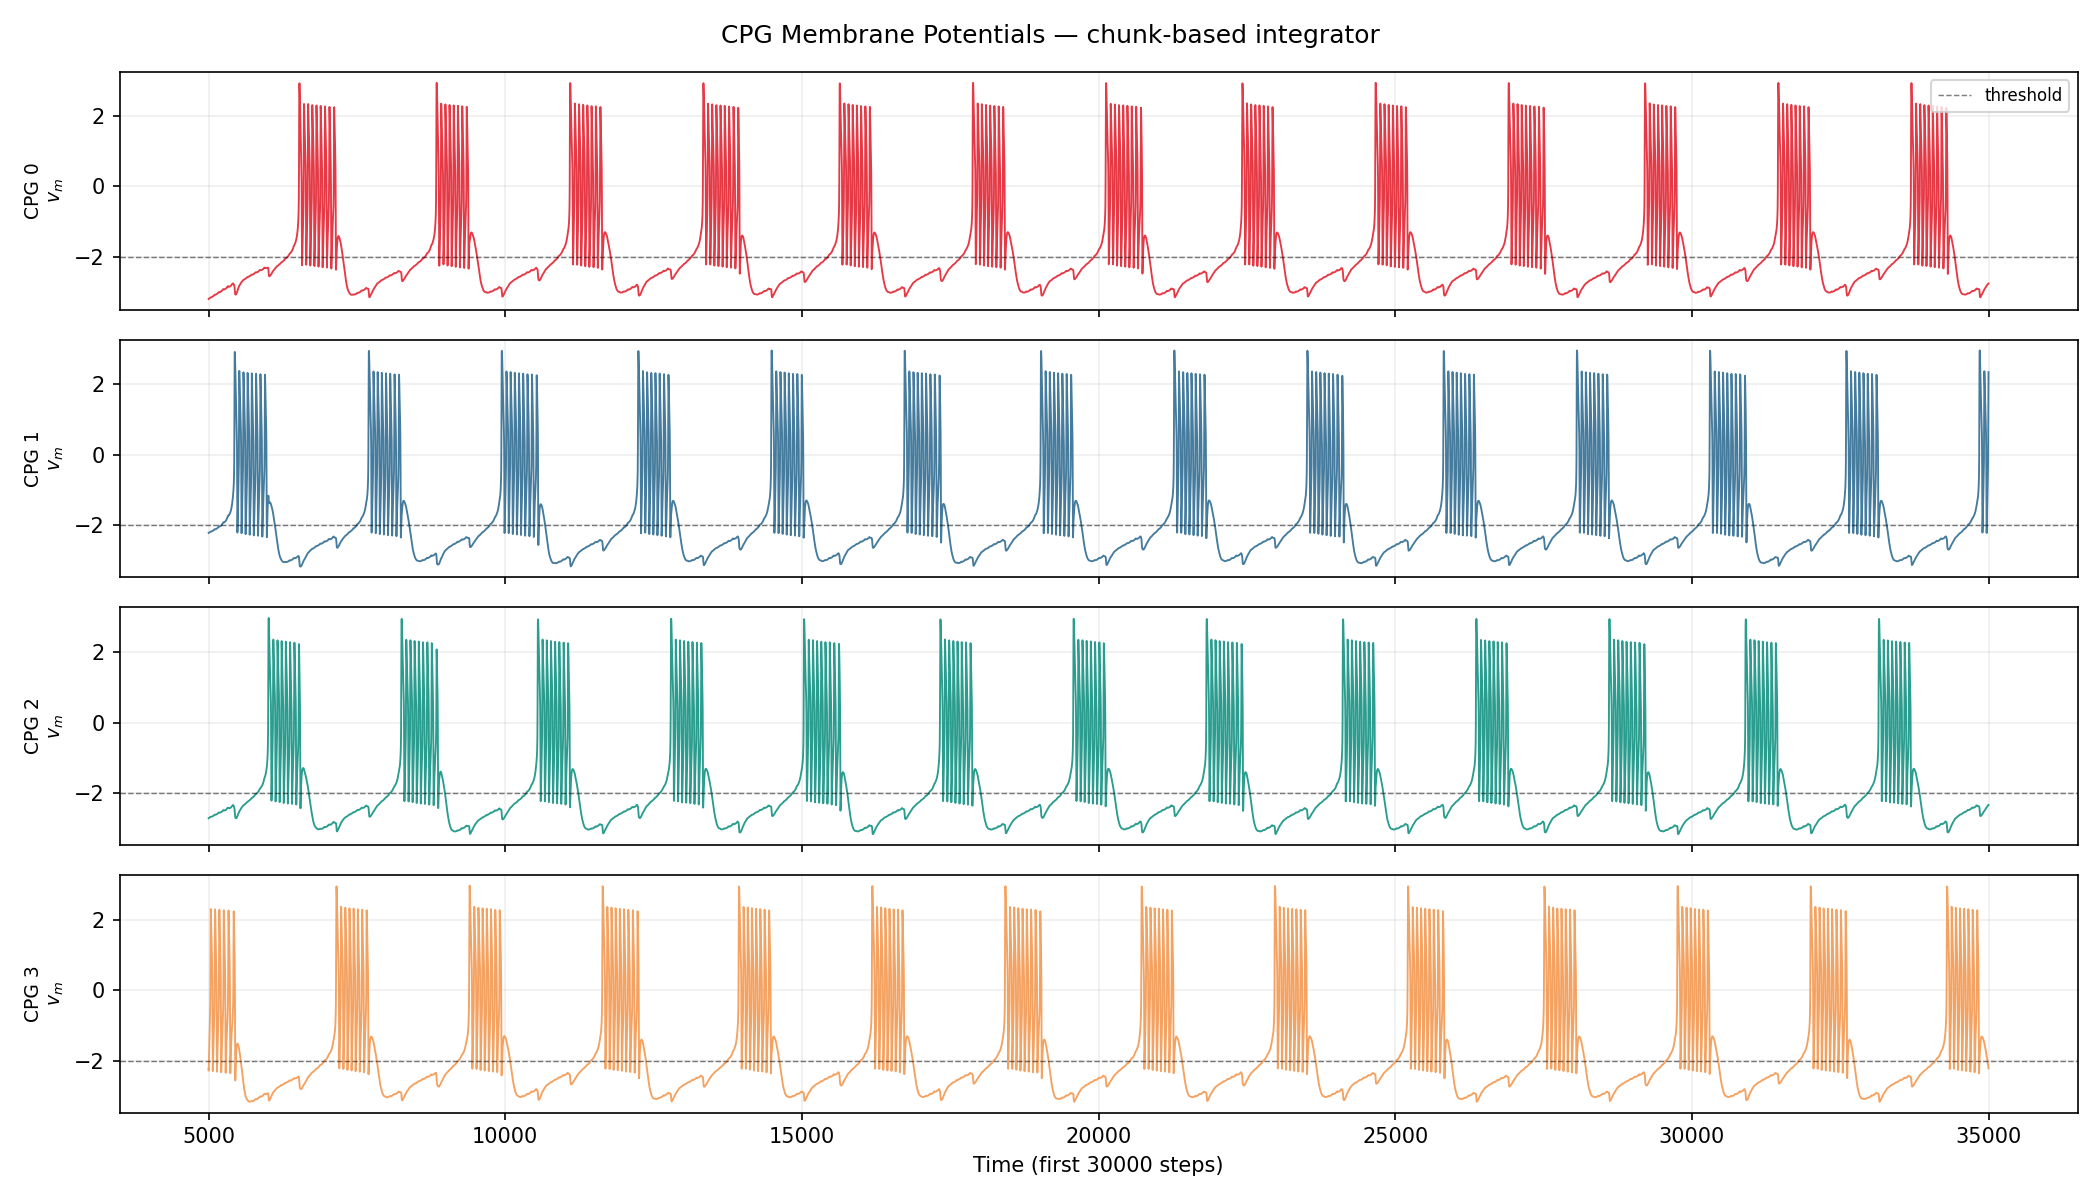
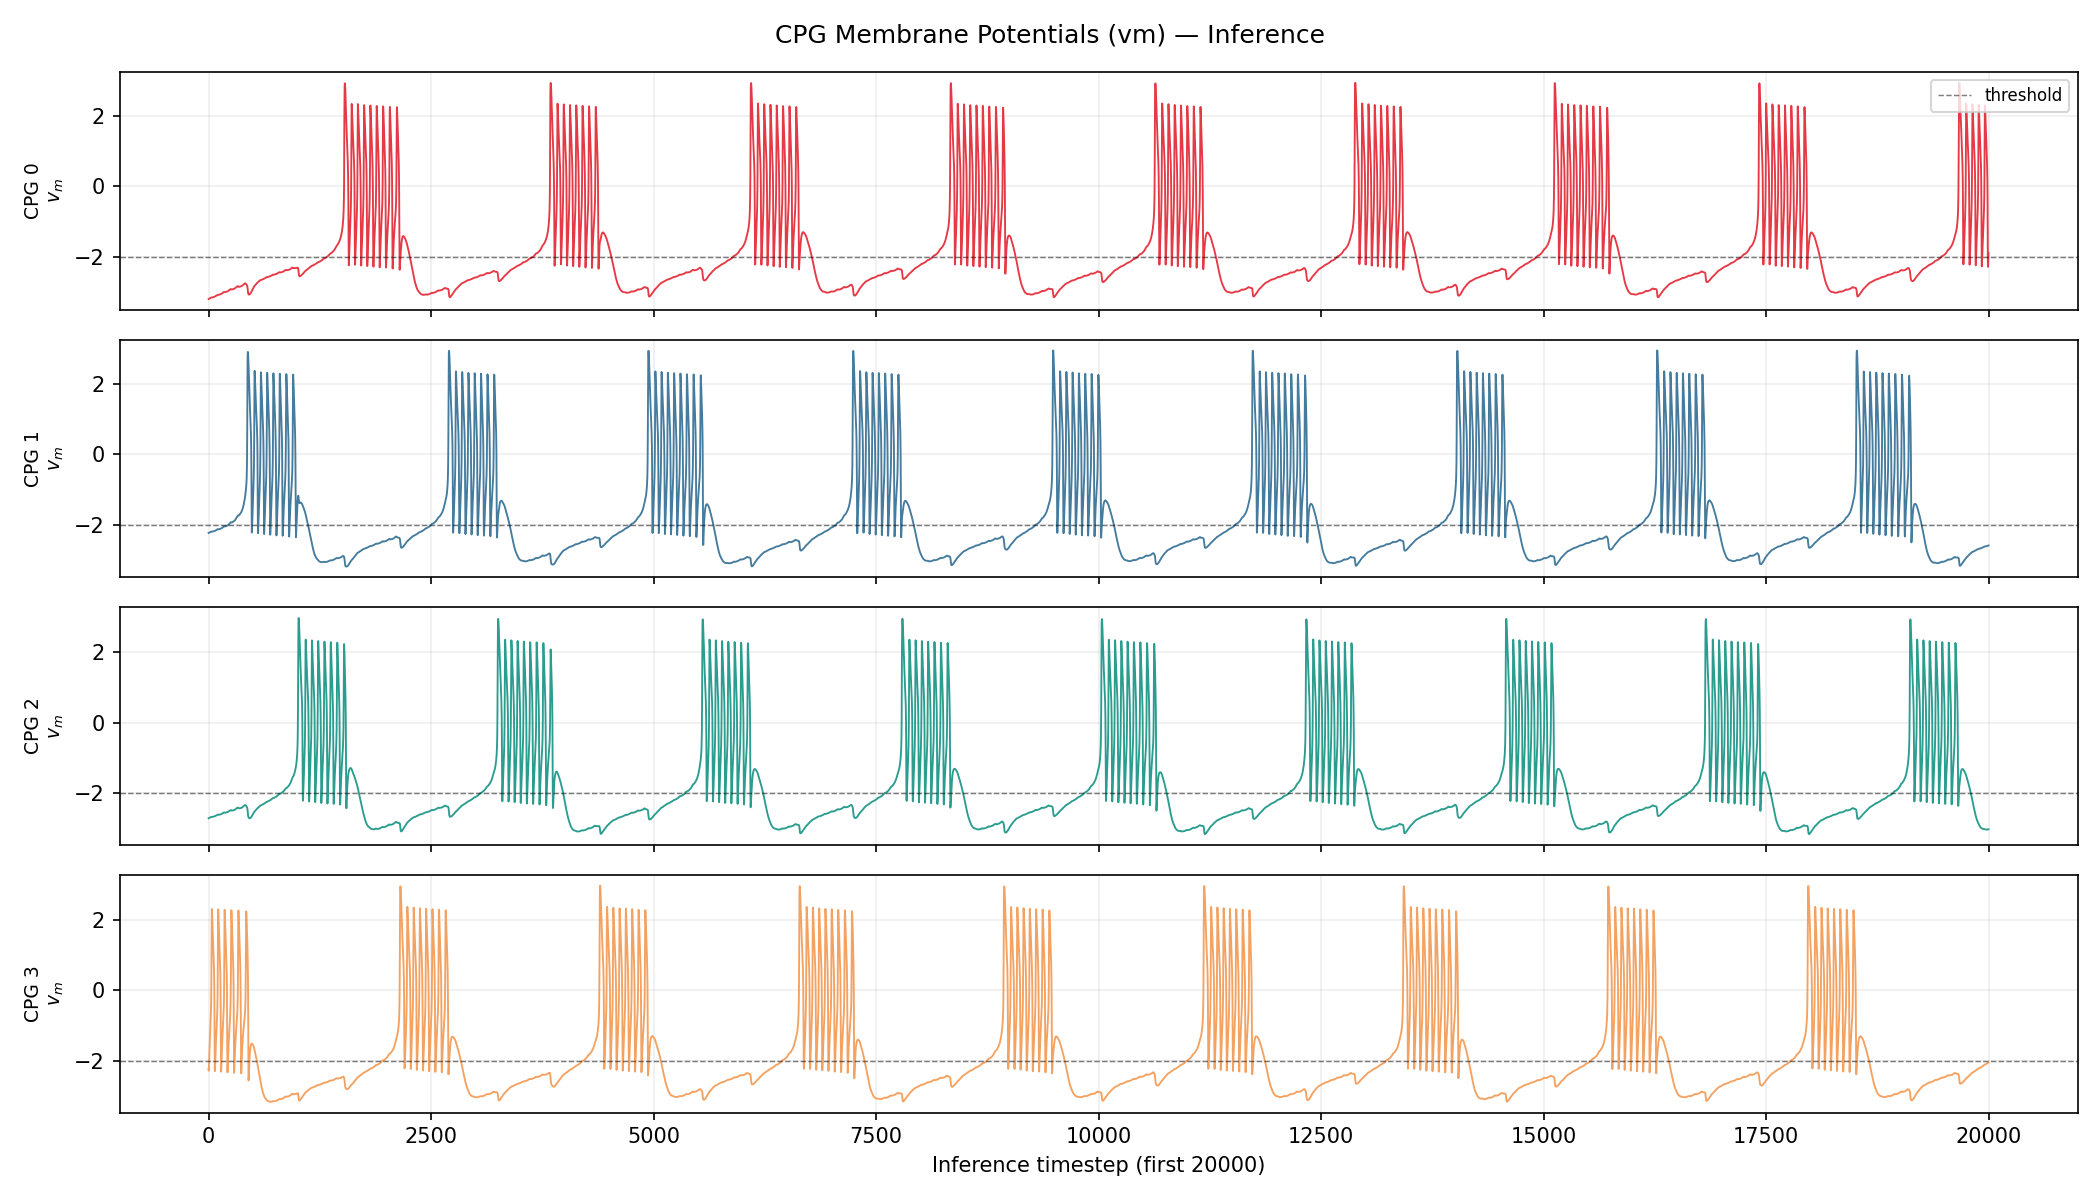
Made inference flexible to all sim/real robot types

diff --git a/cpg_snn/inference_cpg_snn_threaded.py b/cpg_snn/inference_cpg_snn_threaded.py
@@ -49,9 +49,6 @@ import matplotlib.pyplot as plt
 import matplotlib.gridspec as gridspec
 from pathlib import Path
 
-import rospy
-from std_msgs.msg import Float64
-
 
 # ═══════════════════════════════════════════════════════════════════
 # 1.  Config loader
@@ -426,40 +423,47 @@ class SharedState:
 def serial_worker(shared, n_joints, stop_event):
     """
     Daemon thread owning all serial I/O.
-    Only imported and started when --no_robot is NOT set.
     """
-    
-    # Import here so the module loads cleanly without a robot
-    # from PetoiRobot import send, goodPorts, readGestureVal
 
     cur_gesture = 0
     while not stop_event.is_set():
 
         cmd, ready = shared.get_cmd()
         if ready and cmd is not None:
-            # ROS commands (comment for real hardware)
-            for i, joint_name in enumerate(ALL_LEG_JOINTS):
-                msg = Float64(data=JOINT_DIRECTIONS[i]*(cmd[i]+JOINT_OFFSETS[i]))
-                publishers[joint_name].publish(msg)
-        rate.sleep()
 
+            if cmd[0] == "I": # REAL HARDWARE:
+                from PetoiRobot import send, goodPorts, readGestureVal
+                cmd, ready = shared.get_cmd()
+                if ready and cmd is not None:
+                    try:
+                        send(goodPorts, cmd)
+                    except Exception as e:
+                        print(f"  [serial] send error: {e}")
 
-        # cmd, ready = shared.get_cmd()
-        # if ready and cmd is not None:
-        #     try:
-        #         send(goodPorts, cmd)
-        #     except Exception as e:
-        #         print(f"  [serial] send error: {e}")
+                try:
+                    gesture = readGestureVal()
+                    if gesture is not None and gesture != -1:
+                        if gesture != cur_gesture:
+                            print(f"  [serial] gait {cur_gesture} → {gesture}")
+                            cur_gesture = gesture
+                        shared.set_gait(cur_gesture)
+                except Exception as e:
+                    print(f"  [serial] gesture read error: {e}")
 
-        # try:
-        #     gesture = readGestureVal()
-        #     if gesture is not None and gesture != -1:
-        #         if gesture != cur_gesture:
-        #             print(f"  [serial] gait {cur_gesture} → {gesture}")
-        #             cur_gesture = gesture
-        #         shared.set_gait(cur_gesture)
-        # except Exception as e:
-        #     print(f"  [serial] gesture read error: {e}")
+            else: # SIM
+                from std_msgs.msg import Float64
+                for i, joint_name in enumerate(command_topics[:8]):
+                    msg = Float64(data=JOINT_DIRECTIONS[i]*(cmd[i]+JOINT_OFFSETS[i]))
+                    publishers[joint_name].publish(msg)
+                
+                if len(command_topics) > 8:
+                    publishers["/a1_gazebo/FL_hip_joint/command"].publish(0)
+                    publishers["/a1_gazebo/FR_hip_joint/command"].publish(0)
+                    publishers["/a1_gazebo/RR_hip_joint/command"].publish(-0.1)
+                    publishers["/a1_gazebo/RL_hip_joint/command"].publish(0.1)
+                rate.sleep()
+
+        
 
 
 # ═══════════════════════════════════════════════════════════════════
@@ -739,7 +743,7 @@ def run_inference(cfg, onnx_path, out_dir,
                   t_max=50_000,
                   gait_schedule=None,
                   record=True,
-                  robot=True):
+                  robot_mode="no_robot"):
     """
     Two-thread inference loop.
 
@@ -782,7 +786,7 @@ def run_inference(cfg, onnx_path, out_dir,
     stop_event = _threading.Event()
 
     # ── Serial thread (only when robot is connected) ─────────────
-    if robot:
+    if robot_mode != "no_robot":
         ser_thread = _threading.Thread(
             target=serial_worker,
             args=(shared, n_joints, stop_event),
@@ -792,7 +796,7 @@ def run_inference(cfg, onnx_path, out_dir,
         print("  Serial thread started.")
     else:
         ser_thread = None
-        print("  --no_robot: serial thread suppressed.")
+        print("  No robot: serial thread suppressed.")
 
     # ── Inference components ─────────────────────────────────────
     predictor = ONNXGaitPredictor(onnx_path)
@@ -884,22 +888,25 @@ def run_inference(cfg, onnx_path, out_dir,
                 t0        = time.perf_counter()
                 window    = event_buf.get()
                 pred_norm = predictor.predict(window, active_gait)  # FiLM
-                pred_deg  = pred_norm * scale + shift
+                pred  = pred_norm * scale + shift
                 lat_ms    = (time.perf_counter() - t0) * 1000
                 latencies.append(lat_ms)
 
-                simulation=True #TODO make this an arg
                 # Hand off command (no-op if no serial thread)
                 
-                if simulation:
-                    cmd = [int(np.clip(pred_deg[j], -124, 124)) for j in range(n_joints)]
-                    cmd = np.radians(np.array(cmd))
-                    shared.set_cmd(cmd)
-                elif robot:
+                if robot_mode=="bittle":
                     cmd_flat = sum(
-                        [[j + 8, int(np.clip(pred_deg[j], -124, 124))]
+                        [[j + 8, int(np.clip(pred[j], -124, 124))]
                          for j in range(n_joints)], [])
                     shared.set_cmd(['I', cmd_flat, 0.0])
+                elif robot_mode=="bittle_sim":
+                    cmd = [int(np.clip(pred[j], -124, 124)) for j in range(n_joints)]
+                    cmd = np.radians(np.array(cmd))
+                    shared.set_cmd(cmd)
+                elif robot_mode=="unitree_sim":
+                    cmd = [int(pred[j]) for j in range(n_joints)]
+                    cmd = np.radians(np.array(cmd))
+                    shared.set_cmd(cmd)
 
                 if record:
                     gait_table = GAIT_TABLES[active_gait]
@@ -910,7 +917,7 @@ def run_inference(cfg, onnx_path, out_dir,
                     rec_neuron.append(neuron_id)
                     rec_phase_deg.append(float(np.degrees(abs_phase_rad)))
                     rec_gait_idx.append(active_gait)
-                    rec_pred.append(pred_deg.copy())
+                    rec_pred.append(pred.copy())
                     rec_true.append(
                         gait_table[row_idx].astype(np.float32))
 
@@ -953,42 +960,6 @@ def run_inference(cfg, onnx_path, out_dir,
 # ═══════════════════════════════════════════════════════════════════
 
 
-# Ros stuff
-PUBLISH_RATE = 50.0 # Hz (Control frequency)
-# ALL_LEG_JOINTS = [
-#     'shrfs_joint_position_controller', # 0: Front Right Shoulder
-#     'shrft_joint_position_controller', # 1: Front Right Knee
-#     'shlfs_joint_position_controller', # 2: Front Left Shoulder
-#     'shlft_joint_position_controller', # 3: Front Left Knee
-#     'shrrs_joint_position_controller', # 4: Back Right Shoulder
-#     'shrrt_joint_position_controller', # 5: Back Right Knee
-#     'shlrs_joint_position_controller', # 6: Back Left Shoulder
-#     'shlrt_joint_position_controller', # 7: Back Left Knee
-# ]
-### ARRANGEMNET FROM DYNAMIC FSM REPO
-ALL_LEG_JOINTS = [
-    'left_front_shoulder_joint_position_controller', # 0: Front Right Shoulder
-    'right_front_shoulder_joint_position_controller', # 1: Front Right Knee
-    'right_back_shoulder_joint_position_controller', # 2: Front Left Shoulder
-    'left_back_shoulder_joint_position_controller', # 3: Front Left Knee
-    'left_front_knee_joint_position_controller', # 4: Back Right Shoulder
-    'right_front_knee_joint_position_controller', # 5: Back Right Knee
-    'right_back_knee_joint_position_controller', # 6: Back Left Shoulder
-    'left_back_knee_joint_position_controller', # 7: Back Left Knee
-]
-JOINT_OFFSETS = [
-    0,0,0,0,0,0,0,0
-]
-JOINT_DIRECTIONS = [
-    1, -1, -1, 1, 1, -1, -1, 1
-]
-
-rospy.init_node('gait_decoder_commander_node', anonymous=True)
-rate = rospy.Rate(PUBLISH_RATE)
-publishers = {}
-for topic_name in ALL_LEG_JOINTS:
-    publishers[topic_name] = rospy.Publisher(f'/{topic_name}/command', Float64, queue_size=1)
-
 def main():
     parser = argparse.ArgumentParser(
         description="CPG-SNN multi-gait inference (ONNX Runtime)")
@@ -997,7 +968,7 @@ def main():
                              "cpg_snn_config.json")
     parser.add_argument("--t_max",    type=int,  default=50_000,
                         help="Inference steps after warm-up")
-    parser.add_argument("--robot_mode", type="string", default="no_robot", help="Options: no_robot, bittle, bittle_sim, unitree_sim")
+    parser.add_argument("--robot_mode", type=str, default="no_robot", help="Options: no_robot, bittle, bittle_sim, unitree_sim")
     args = parser.parse_args()
 
     out_dir   = Path(args.out_dir)
@@ -1018,8 +989,57 @@ def main():
         send(goodPorts, ['XAd', 0])
         send(goodPorts, ['XGp', 0])
         print("  Robot connected.")
+    elif args.robot_mode=="bittle_sim" or args.robot_mode=="unitree_sim":
+        import rospy
+        from std_msgs.msg import Float64
+        global command_topics, JOINT_DIRECTIONS, JOINT_OFFSETS, publishers, PUBLISH_RATE, rate
+        PUBLISH_RATE = 50.0 # Hz (Control frequency)
+        rospy.init_node('gait_decoder_commander_node', anonymous=True)
+        rate = rospy.Rate(PUBLISH_RATE)
+        if args.robot_mode=="bittle_sim":
+            command_topics = [
+                'left_front_shoulder_joint_position_controller/command', # 0: Front Right Shoulder
+                'right_front_shoulder_joint_position_controller/command', # 1: Front Right Knee
+                'right_back_shoulder_joint_position_controller/command', # 2: Front Left Shoulder
+                'left_back_shoulder_joint_position_controller/command', # 3: Front Left Knee
+                'left_front_knee_joint_position_controller/command', # 4: Back Right Shoulder
+                'right_front_knee_joint_position_controller/command', # 5: Back Right Knee
+                'right_back_knee_joint_position_controller/command', # 6: Back Left Shoulder
+                'left_back_knee_joint_position_controller/command', # 7: Back Left Knee
+            ]
+            JOINT_OFFSETS = [
+                0,0,0,0,0,0,0,0
+            ]
+            JOINT_DIRECTIONS = [
+                1, -1, -1, 1, 1, -1, -1, 1
+            ]
+            
+        else:
+            command_topics = [
+                    "/a1_gazebo/FL_thigh_joint/command",
+                    "/a1_gazebo/FR_thigh_joint/command",
+                    "/a1_gazebo/RR_thigh_joint/command",
+                    "/a1_gazebo/RL_thigh_joint/command",
+                    "/a1_gazebo/FL_calf_joint/command",
+                    "/a1_gazebo/FR_calf_joint/command",
+                    "/a1_gazebo/RR_calf_joint/command",
+                    "/a1_gazebo/RL_calf_joint/command",
+                    "/a1_gazebo/FL_hip_joint/command",
+                    "/a1_gazebo/FR_hip_joint/command",
+                    "/a1_gazebo/RR_hip_joint/command",
+                    "/a1_gazebo/RL_hip_joint/command"
+                    ]
+            JOINT_OFFSETS = [
+                0,0,0,0,-np.pi*0.5,-np.pi*0.5,-np.pi*0.5,-np.pi*0.5
+            ]
+            JOINT_DIRECTIONS = [
+                1, 1, 1, 1, 1, 1, 1, 1
+            ]
+        publishers = {}
+        for topic_name in command_topics:
+            publishers[topic_name] = rospy.Publisher(topic_name, Float64, queue_size=1)
     else:
-        print("  --no_robot: skipping robot connection.")
+        print("Skipping Robot Connection")
 
     # ── Scripted gait schedule ───────────────────────────────────
     # Uncomment and edit to test scripted gait transitions:
@@ -1035,9 +1055,9 @@ def main():
     data = run_inference(
         cfg, onnx_path, out_dir,
         t_max=args.t_max,
-        gait_schedule=gait_schedule,
+        gait_schedule=(None if args.robot_mode=="bittle" else gait_schedule),
         record=True,
-        robot=not args.no_robot)
+        robot_mode=args.robot_mode)
 
     if data is None or len(data["rec_t"]) == 0:
         print("No spike events recorded — check CPG parameters.")
